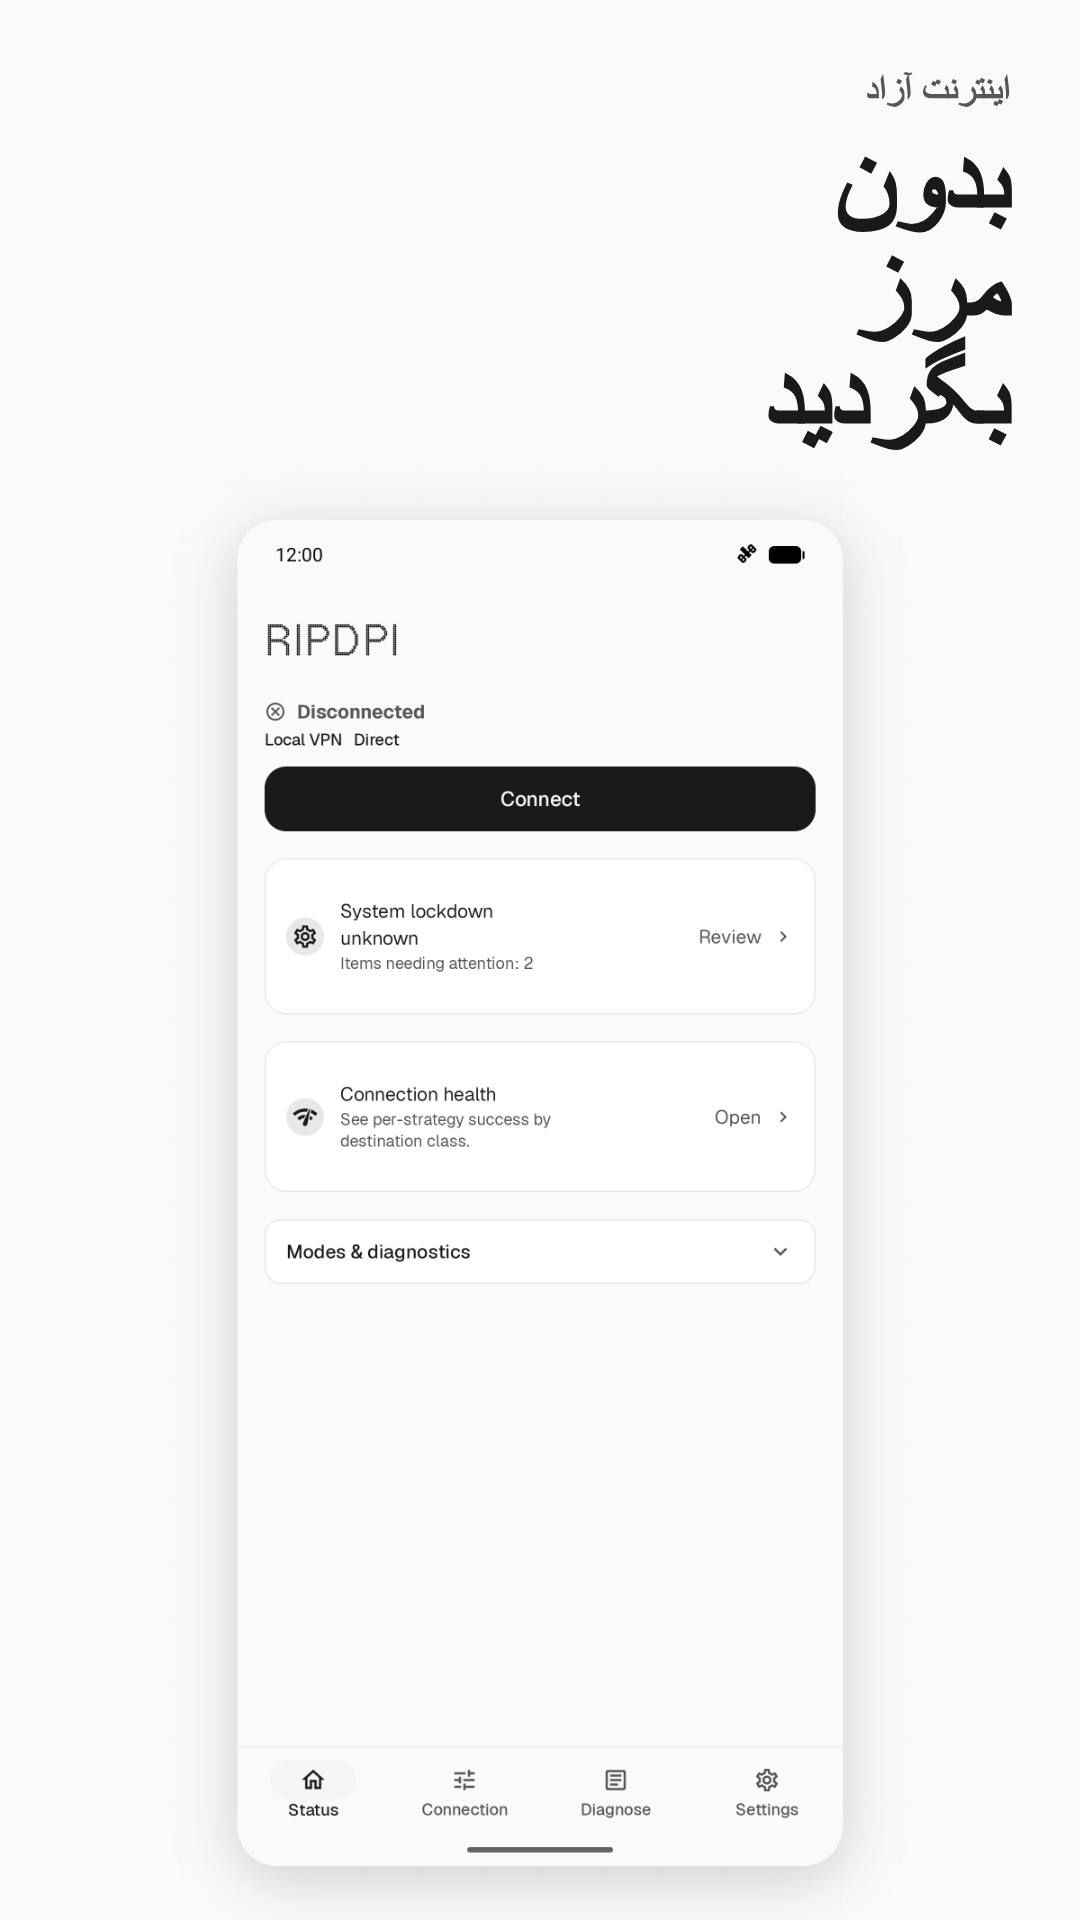
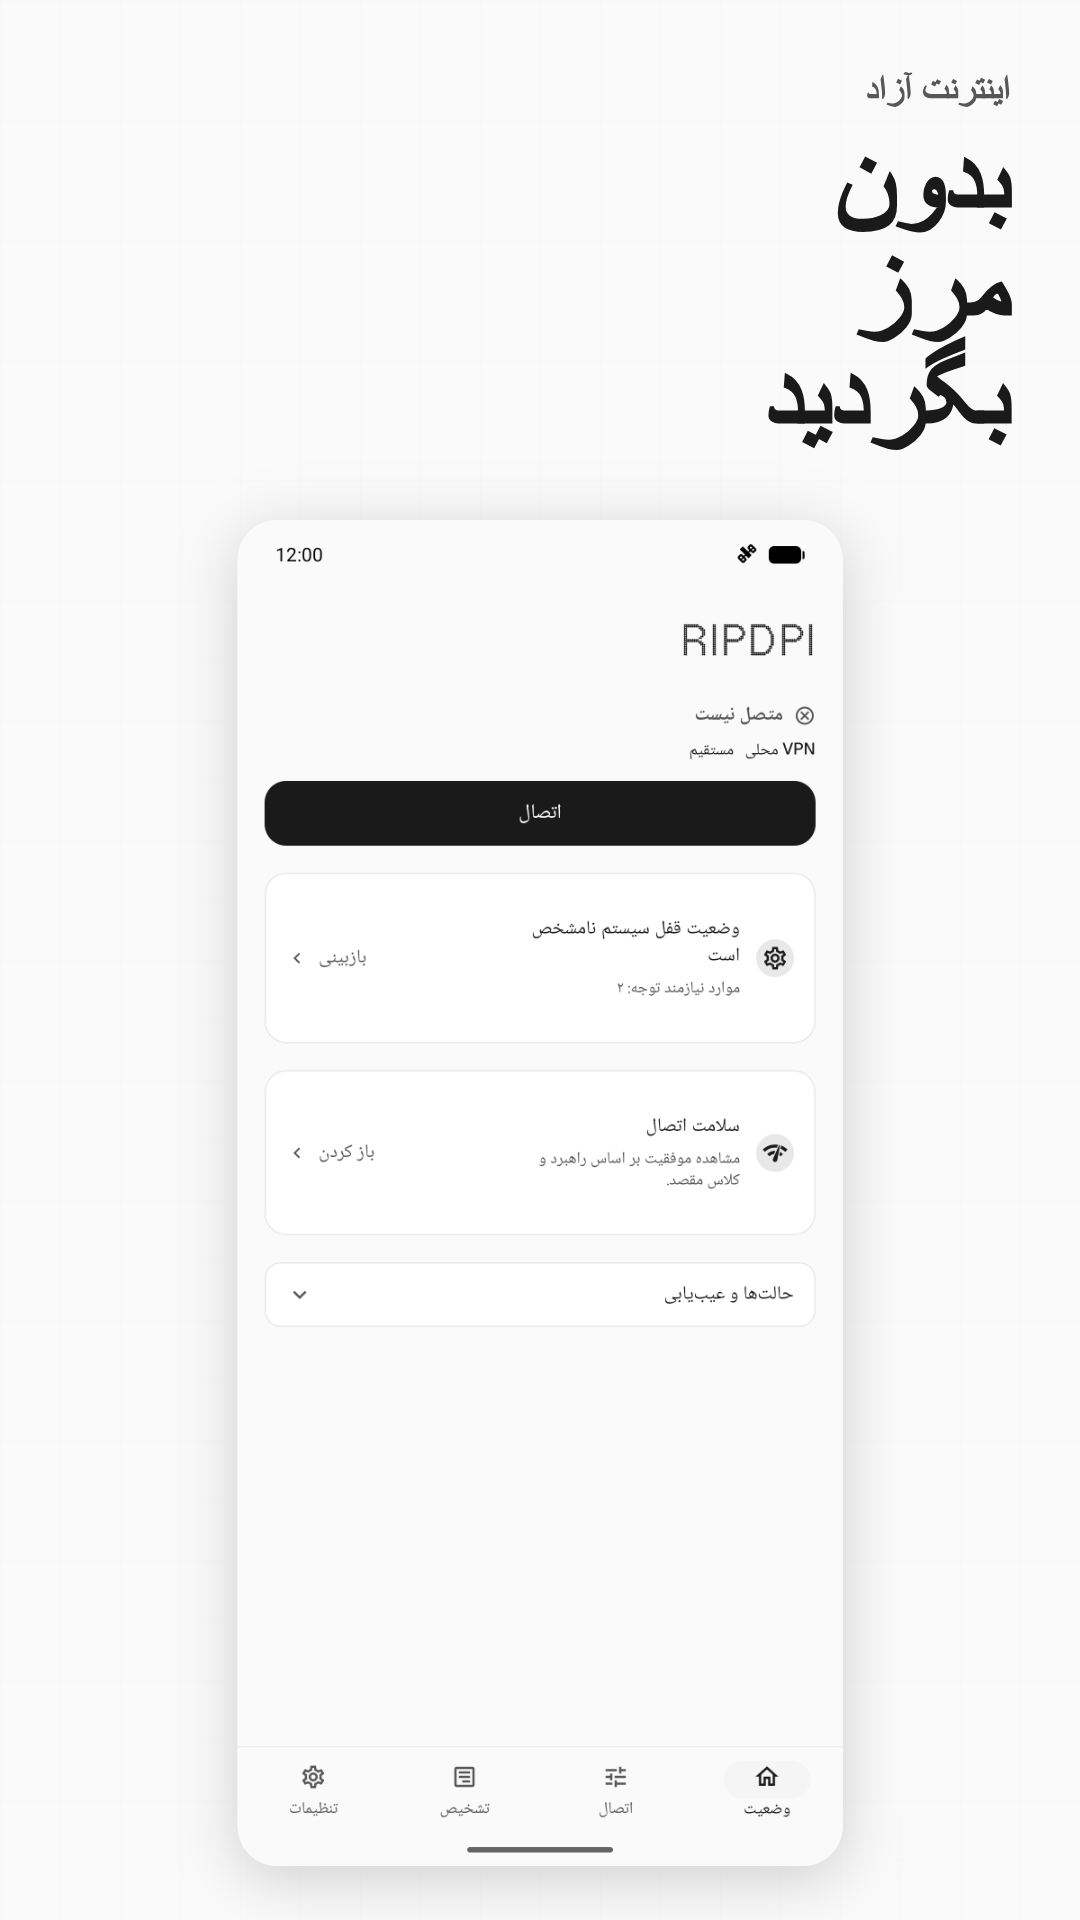
docs: capture each screenshot locale from Android

diff --git a/play-store-screenshots/src/app/page.tsx b/play-store-screenshots/src/app/page.tsx
@@ -254,7 +254,7 @@ function Slide1({ copy }: { copy: SlideCopy }) {
         headline={renderHeadline(copy.slide1.headline)}
       />
       <Screenshot
-        src="/screenshots/home-light.png"
+        src={`/screenshots/${copy.locale}/home-light.png`}
         alt="Home screen"
         style={{
           position: "absolute",
@@ -440,7 +440,7 @@ function Slide3({ copy }: { copy: SlideCopy }) {
       </div>
 
       <Screenshot
-        src="/screenshots/relay.png"
+        src={`/screenshots/${copy.locale}/relay.png`}
         alt="Remote relay protocols"
         style={{
           position: "absolute",
@@ -619,7 +619,7 @@ function Slide5({ copy }: { copy: SlideCopy }) {
       </div>
 
       <Screenshot
-        src="/screenshots/diagnostics.png"
+        src={`/screenshots/${copy.locale}/diagnostics.png`}
         alt="Diagnostics"
         style={{
           position: "absolute",
